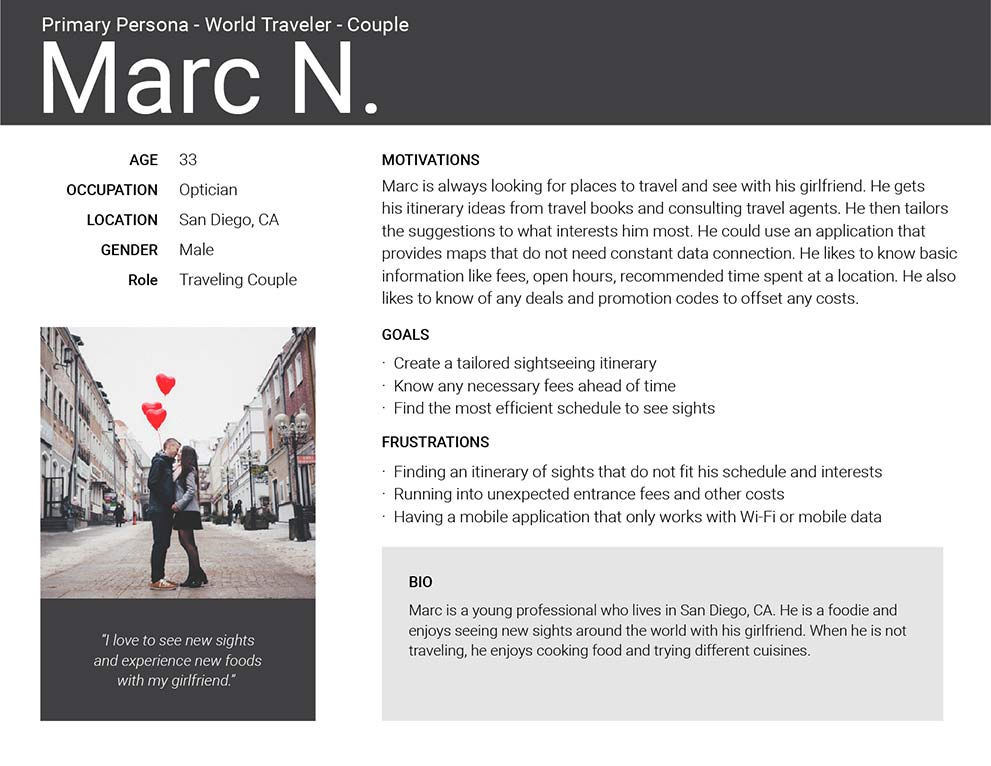
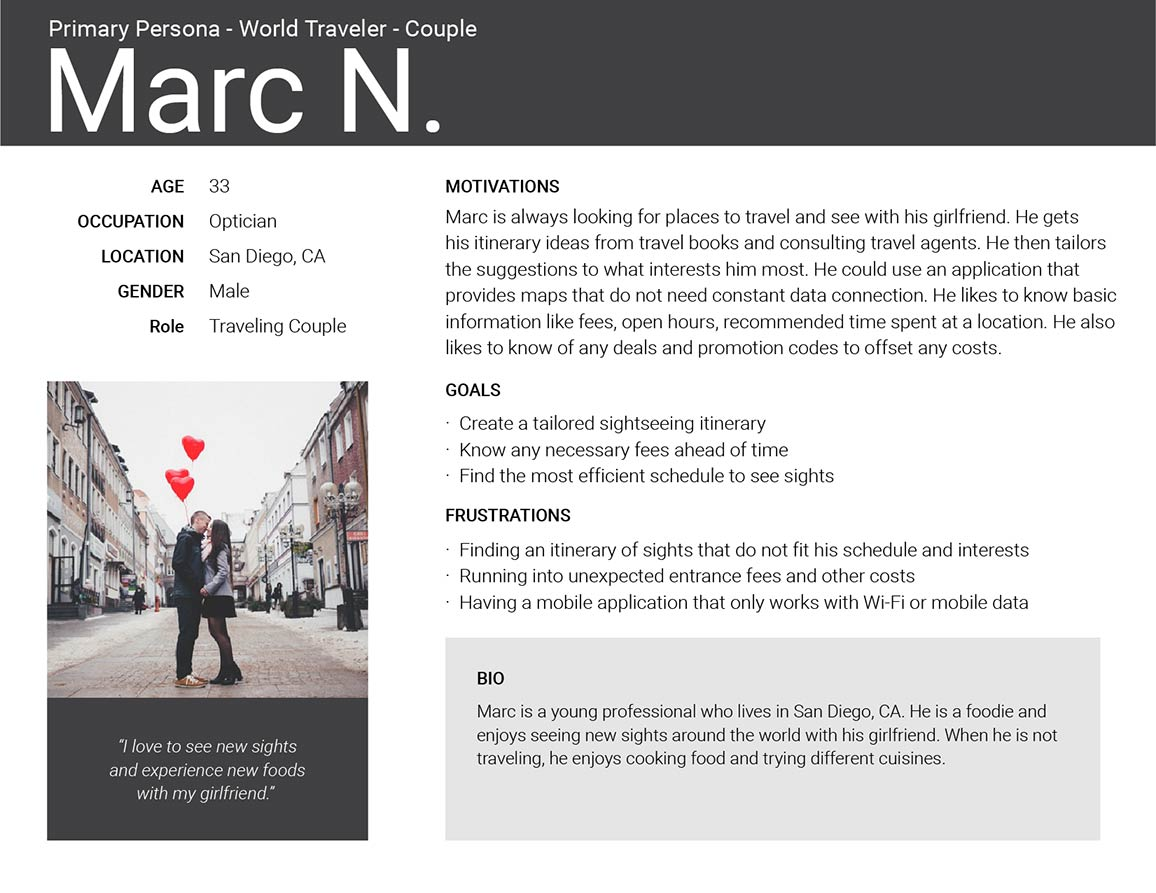
user persona modals resized.

diff --git a/wander.html b/wander.html
@@ -252,7 +252,7 @@
                           <div id="user-personas-couple" class="w3-modal" onclick="this.style.display='none'">
                             <span class="w3-button w3-xlarge w3-display-topright" style="color: #FFFFFF; background-color: rgba(0, 0, 0, 0.4);">&times;</span>
                             <div class="w3-modal-content w3-animate-zoom">
-                              <img src="images/wander/user-personas-couple.png" alt="traveling couple user persona" style="width:100%; display:block; margin: 0 auto;">
+                              <img src="images/wander/user-personas-couple.jpg" alt="traveling couple user persona" style="width:80%; display:block; margin: 0 auto;">
                             </div>
                           </div>
 
@@ -262,7 +262,7 @@
                           <div id="user-personas-mom" class="w3-modal" onclick="this.style.display='none'">
                             <span class="w3-button w3-xlarge w3-display-topright" style="color: #FFFFFF; background-color: rgba(0, 0, 0, 0.4);">&times;</span>
                             <div class="w3-modal-content w3-animate-zoom">
-                              <img src="images/wander/user-personas-mom.png" alt="traveling mom user persona" style="width:100%; display:block; margin: 0 auto;">
+                              <img src="images/wander/user-personas-mom.jpg" alt="traveling mom user persona" style="width:80%; display:block; margin: 0 auto;">
                             </div>
                           </div>
 
@@ -272,7 +272,7 @@
                           <div id="user-personas-solo" class="w3-modal" onclick="this.style.display='none'">
                             <span class="w3-button w3-xlarge w3-display-topright" style="color: #FFFFFF; background-color: rgba(0, 0, 0, 0.4);">&times;</span>
                             <div class="w3-modal-content w3-animate-zoom">
-                              <img src="images/wander/user-personas-solo.png" alt="solo traveler user persona" style="width:100%; display:block; margin: 0 auto;">
+                              <img src="images/wander/user-personas-solo.jpg" alt="solo traveler user persona" style="width:80%; display:block; margin: 0 auto;">
                             </div>
                           </div>
 
